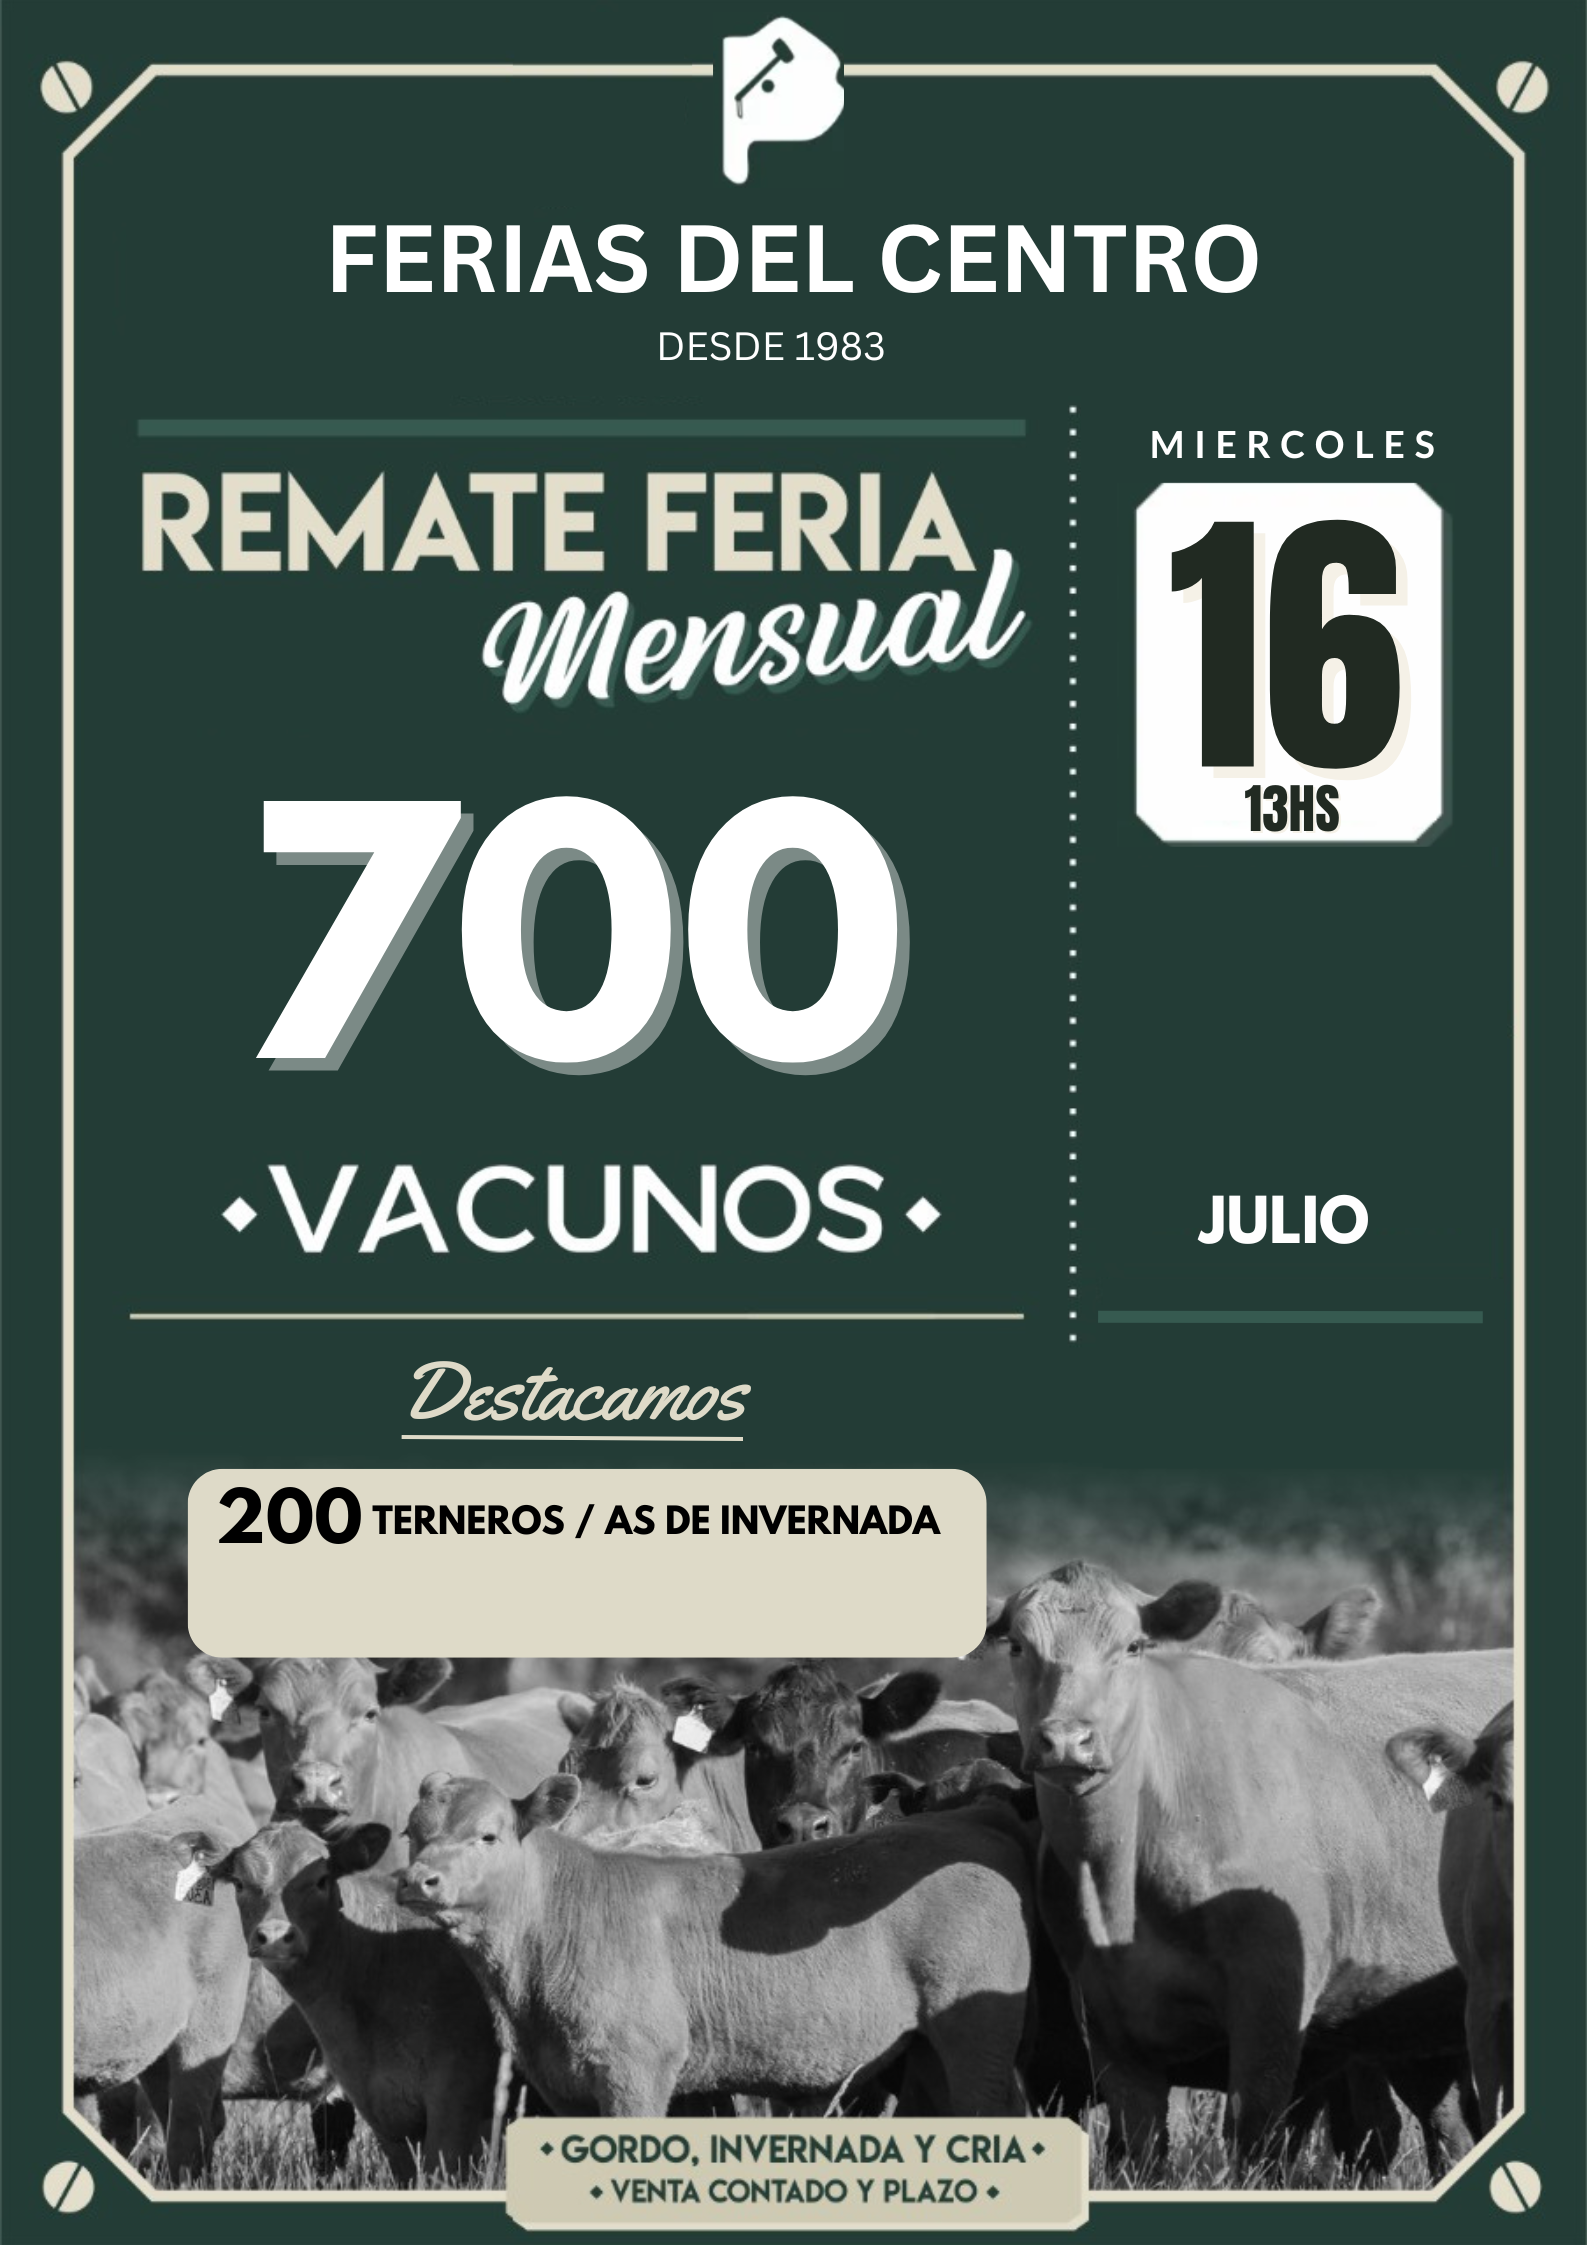
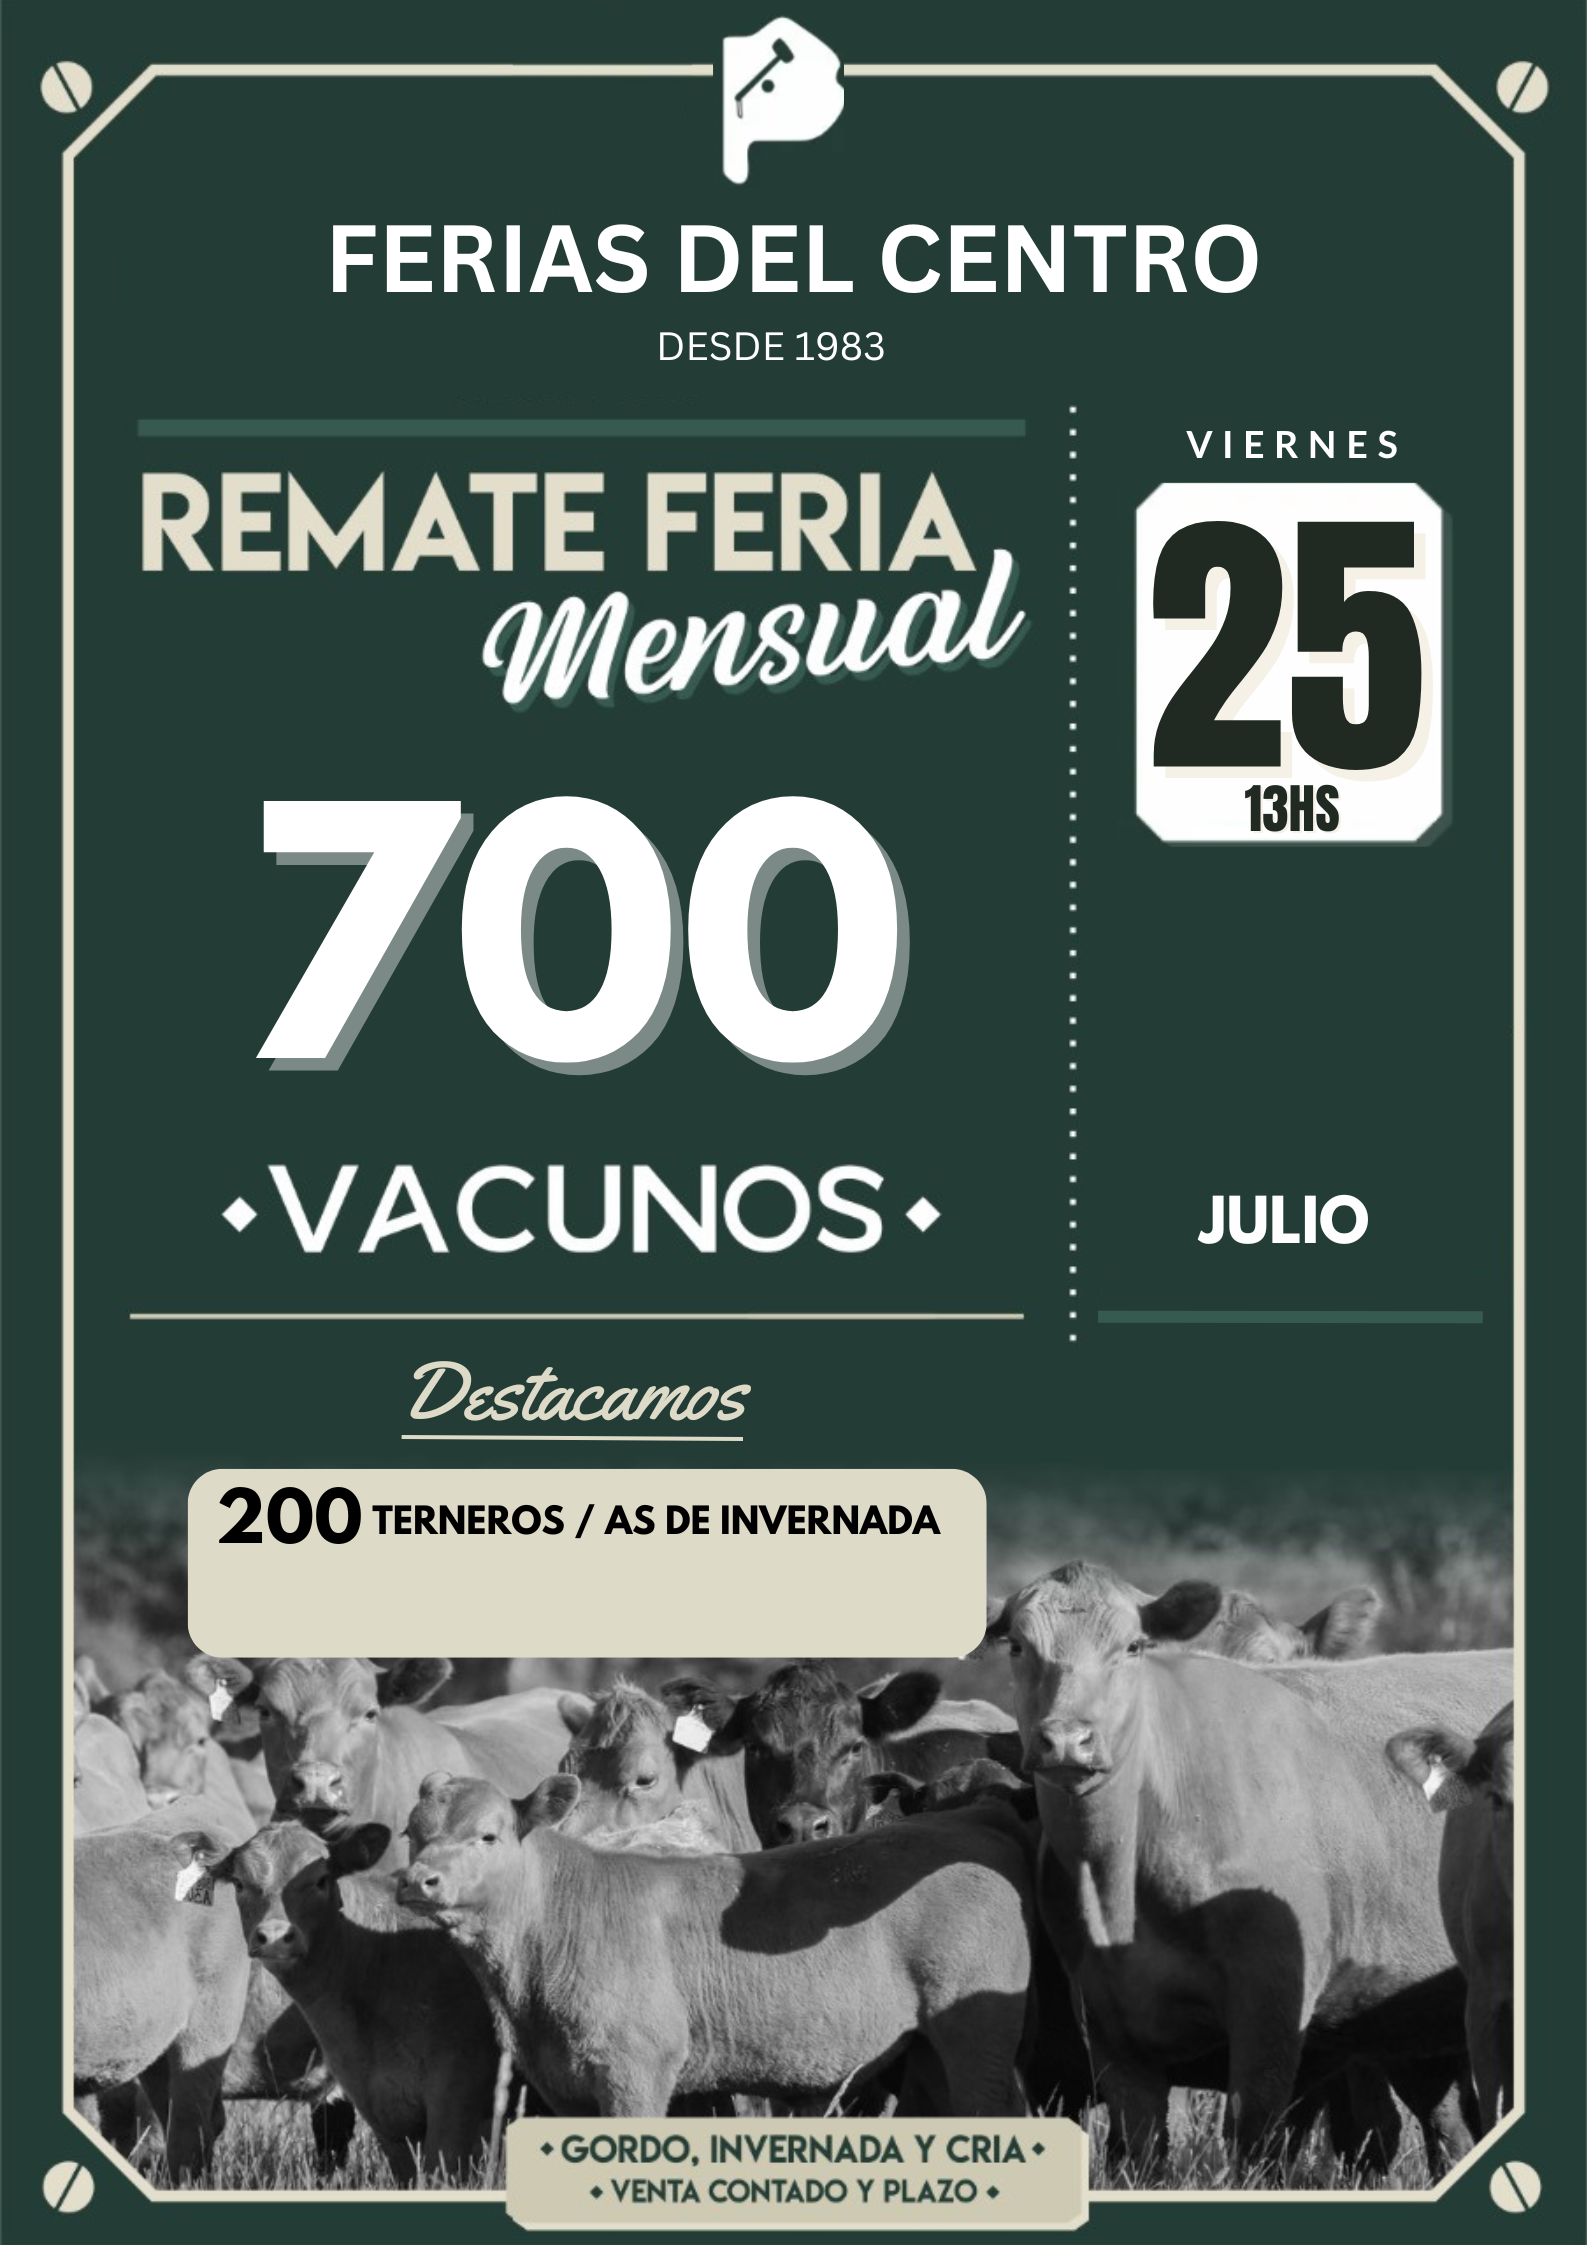
fecha actualizada

Changed region(s): [[0.7101, 0.1871, 0.8954, 0.343]]

diff --git a/components/sections/hero-section/hero-carousel.tsx b/components/sections/hero-section/hero-carousel.tsx
@@ -111,7 +111,7 @@ export function HeroCarousel({ slides }: HeroCarouselProps) {
             Remate
           </span>
           <span className="block text-sm font-medium uppercase tracking-wide text-white">
-            24 Julio
+            25 Julio
           </span>
         </div>
       </div>

diff --git a/components/sections/next-remate-home-section/remate-data.ts b/components/sections/next-remate-home-section/remate-data.ts
@@ -4,7 +4,7 @@ export const nextRemateData: RemateData = {
   id: "remate-julio-2024",
   title: "REMATE FERIA",
   subtitle: "Mensual",
-  date: "24 de Julio",
+  date: "25 de Julio",
   time: "13hs",
   location: "Sociedad rural",
   animalCount: 700,
